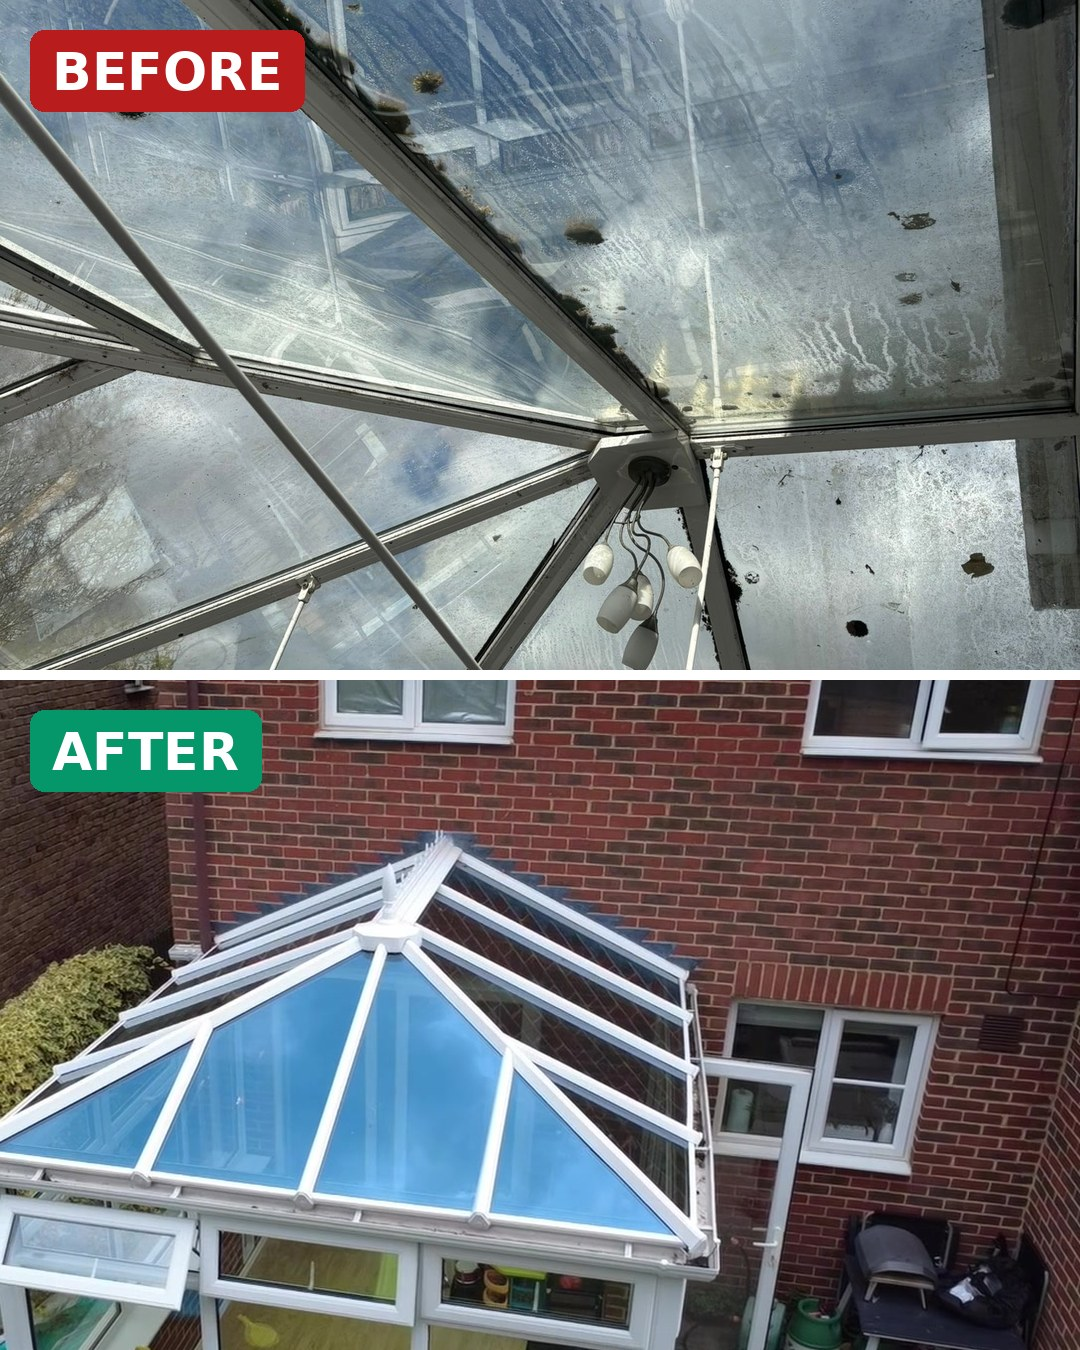
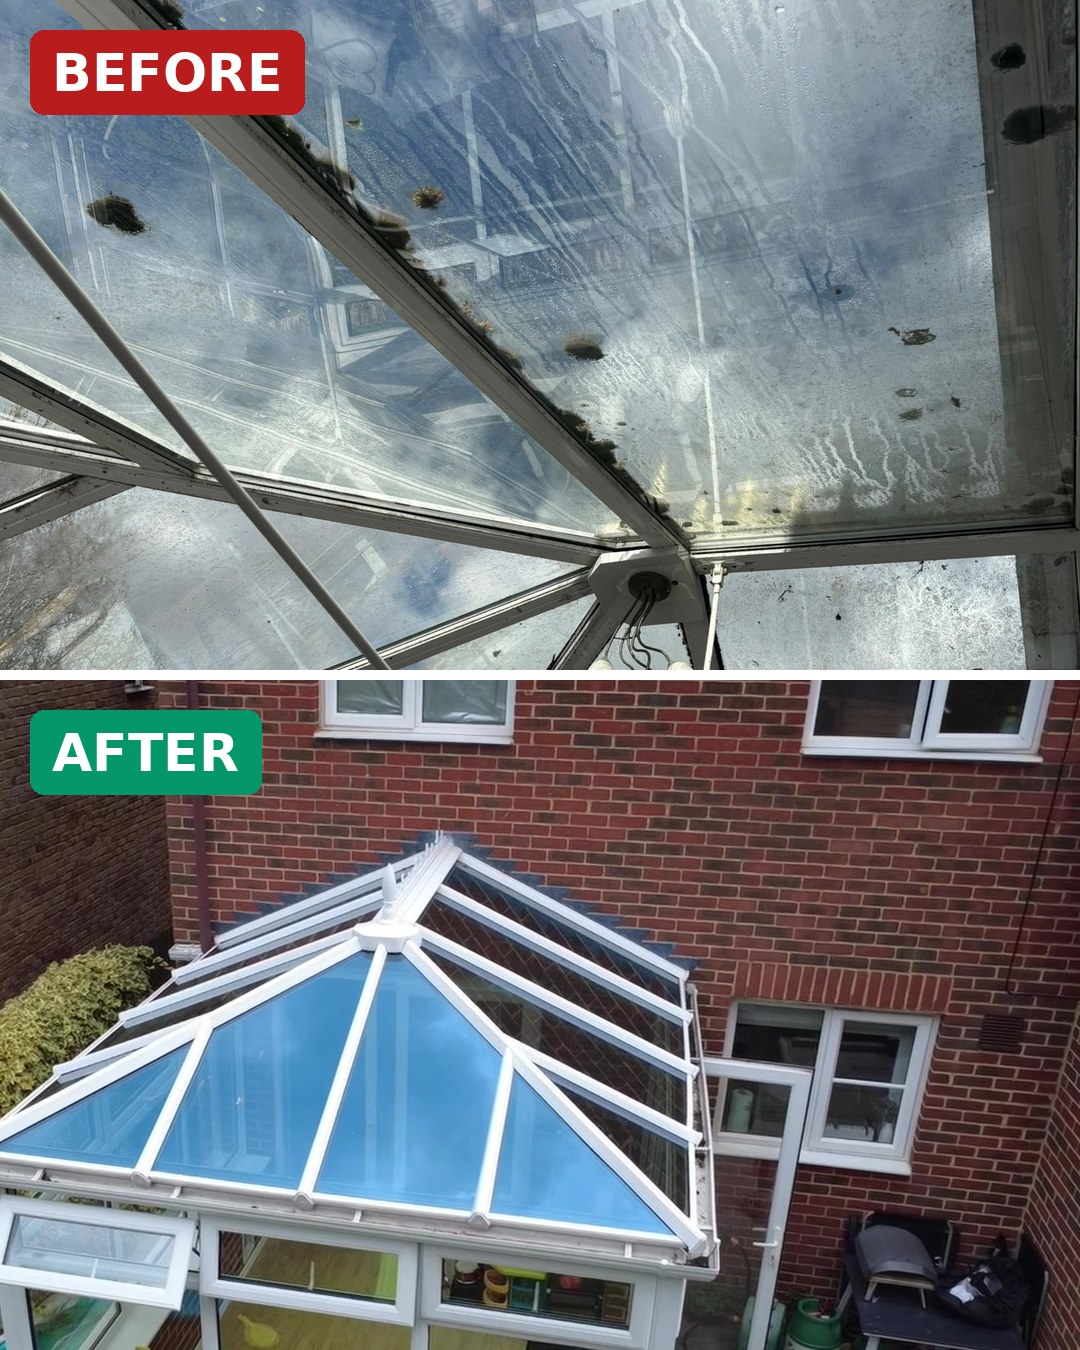
Add conservatory roof before photo and before/after image
Claude-Session: https://claude.ai/code/session_01UCBK5kGpkmzmPTyLieNkBC

diff --git a/library.md b/library.md
@@ -5,4 +5,4 @@
 | 01 | Burgess Hill | Fascia, soffit and gutter clean | `2026-11-burgess-hill-fascia-gutter-01-*` (wide copy also at `2026-11-fascia-gutter-before-after.jpg`, used by the live posts) | Google + Instagram, 19 Nov 2026 |
 | 02 | Burgess Hill | Soffit and fascia clean | `2026-11-burgess-hill-soffit-fascia-02-*` | Not yet |
 | 03 | Burgess Hill | Window clean: frames and sills | `2026-11-burgess-hill-windows-sills-03-*` | Not yet |
-| 04 | Burgess Hill | Conservatory roof clean (before photo, after video and still) | `photos/2025-07-burgess-hill-conservatory-roof-04-*`, `videos/2025-07-burgess-hill-conservatory-roof-04-after.mp4` | Not yet |
+| 04 | Burgess Hill | Conservatory roof clean (before photo from inside, after video from above) | `photos/2025-07-burgess-hill-conservatory-roof-04-*` (tall = before/after), `videos/2025-07-burgess-hill-conservatory-roof-04-after.mp4` | Not yet |
